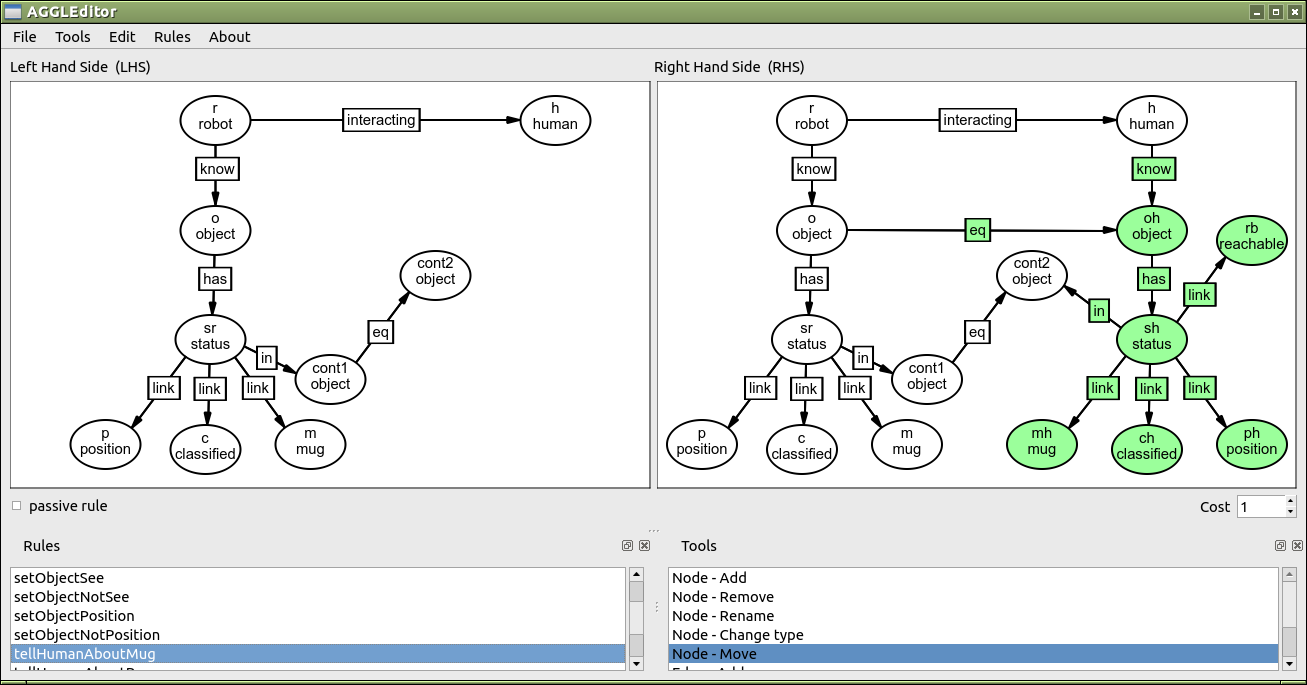
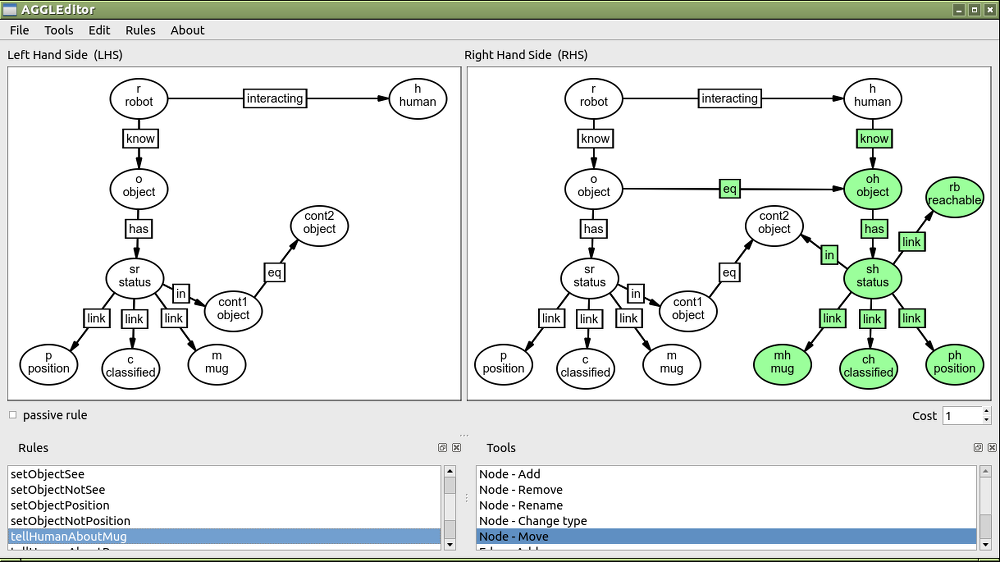
More documentation! It's so fun...

diff --git a/doc/customdoxygen.css b/doc/customdoxygen.css
@@ -261,6 +261,8 @@ div.contents {
 	margin-top: 10px;
 	margin-left: 12px;
 	margin-right: 8px;
+	width: 95%;
+	margin: 0 auto;
 }
 
 td.indexkey {
@@ -1050,7 +1052,9 @@ dl.section dd {
 
 .image
 {
-        text-align: center;
+	text-align: center;
+	width: 50%;
+	
 }
 
 .dotgraph
@@ -1180,5 +1184,22 @@ tr.heading h2 {
     overflow:inherit;
     display:inline;
   }
+
+div.image img
+{ 
+    width: 100px; 
 }
+
+div.image img[src="../../AGGLEditor.png"]{ 
+    width:100px; 
+}
+
+div.image img[src="AGGLEditor.png"]{ 
+    width:100px; 
+}
+
+}
+
+
+
 

diff --git a/doc/footer.html b/doc/footer.html
@@ -2,6 +2,6 @@
     $navpath
 </div>
 <hr class="footer"/>
-</div>
+<!-- </div> -->
 </body>
 </html>
